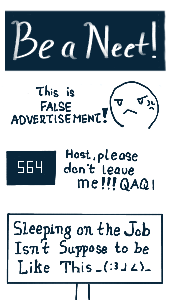
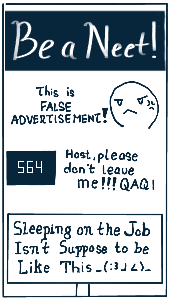
replaced the cover

Changed region(s): [[0.0, 0.0, 1.0, 1.0]]

diff --git a/sleepingOnTheJobIsntSupposedToBeLikeThis.html b/sleepingOnTheJobIsntSupposedToBeLikeThis.html
@@ -68,7 +68,7 @@
 							</section>
 							
 							<section class = "PageBody">
-								<img src = "https://github.com/reinepearl/reinepearl.github.io/blob/master/theHauntedCoverImage.jpg?raw=true"/>
+								<img src = "https://github.com/reinepearl/reinepearl.github.io/blob/master/sleepingOnTheJobIsntSupposedToBeLikeThis_cover.png?raw=true"/>
 								
 								<center>
 								<button type = "button" class = "FontSizeButton" onclick = "increaseFontFunctionToMoreSmall()">A - -</button>
